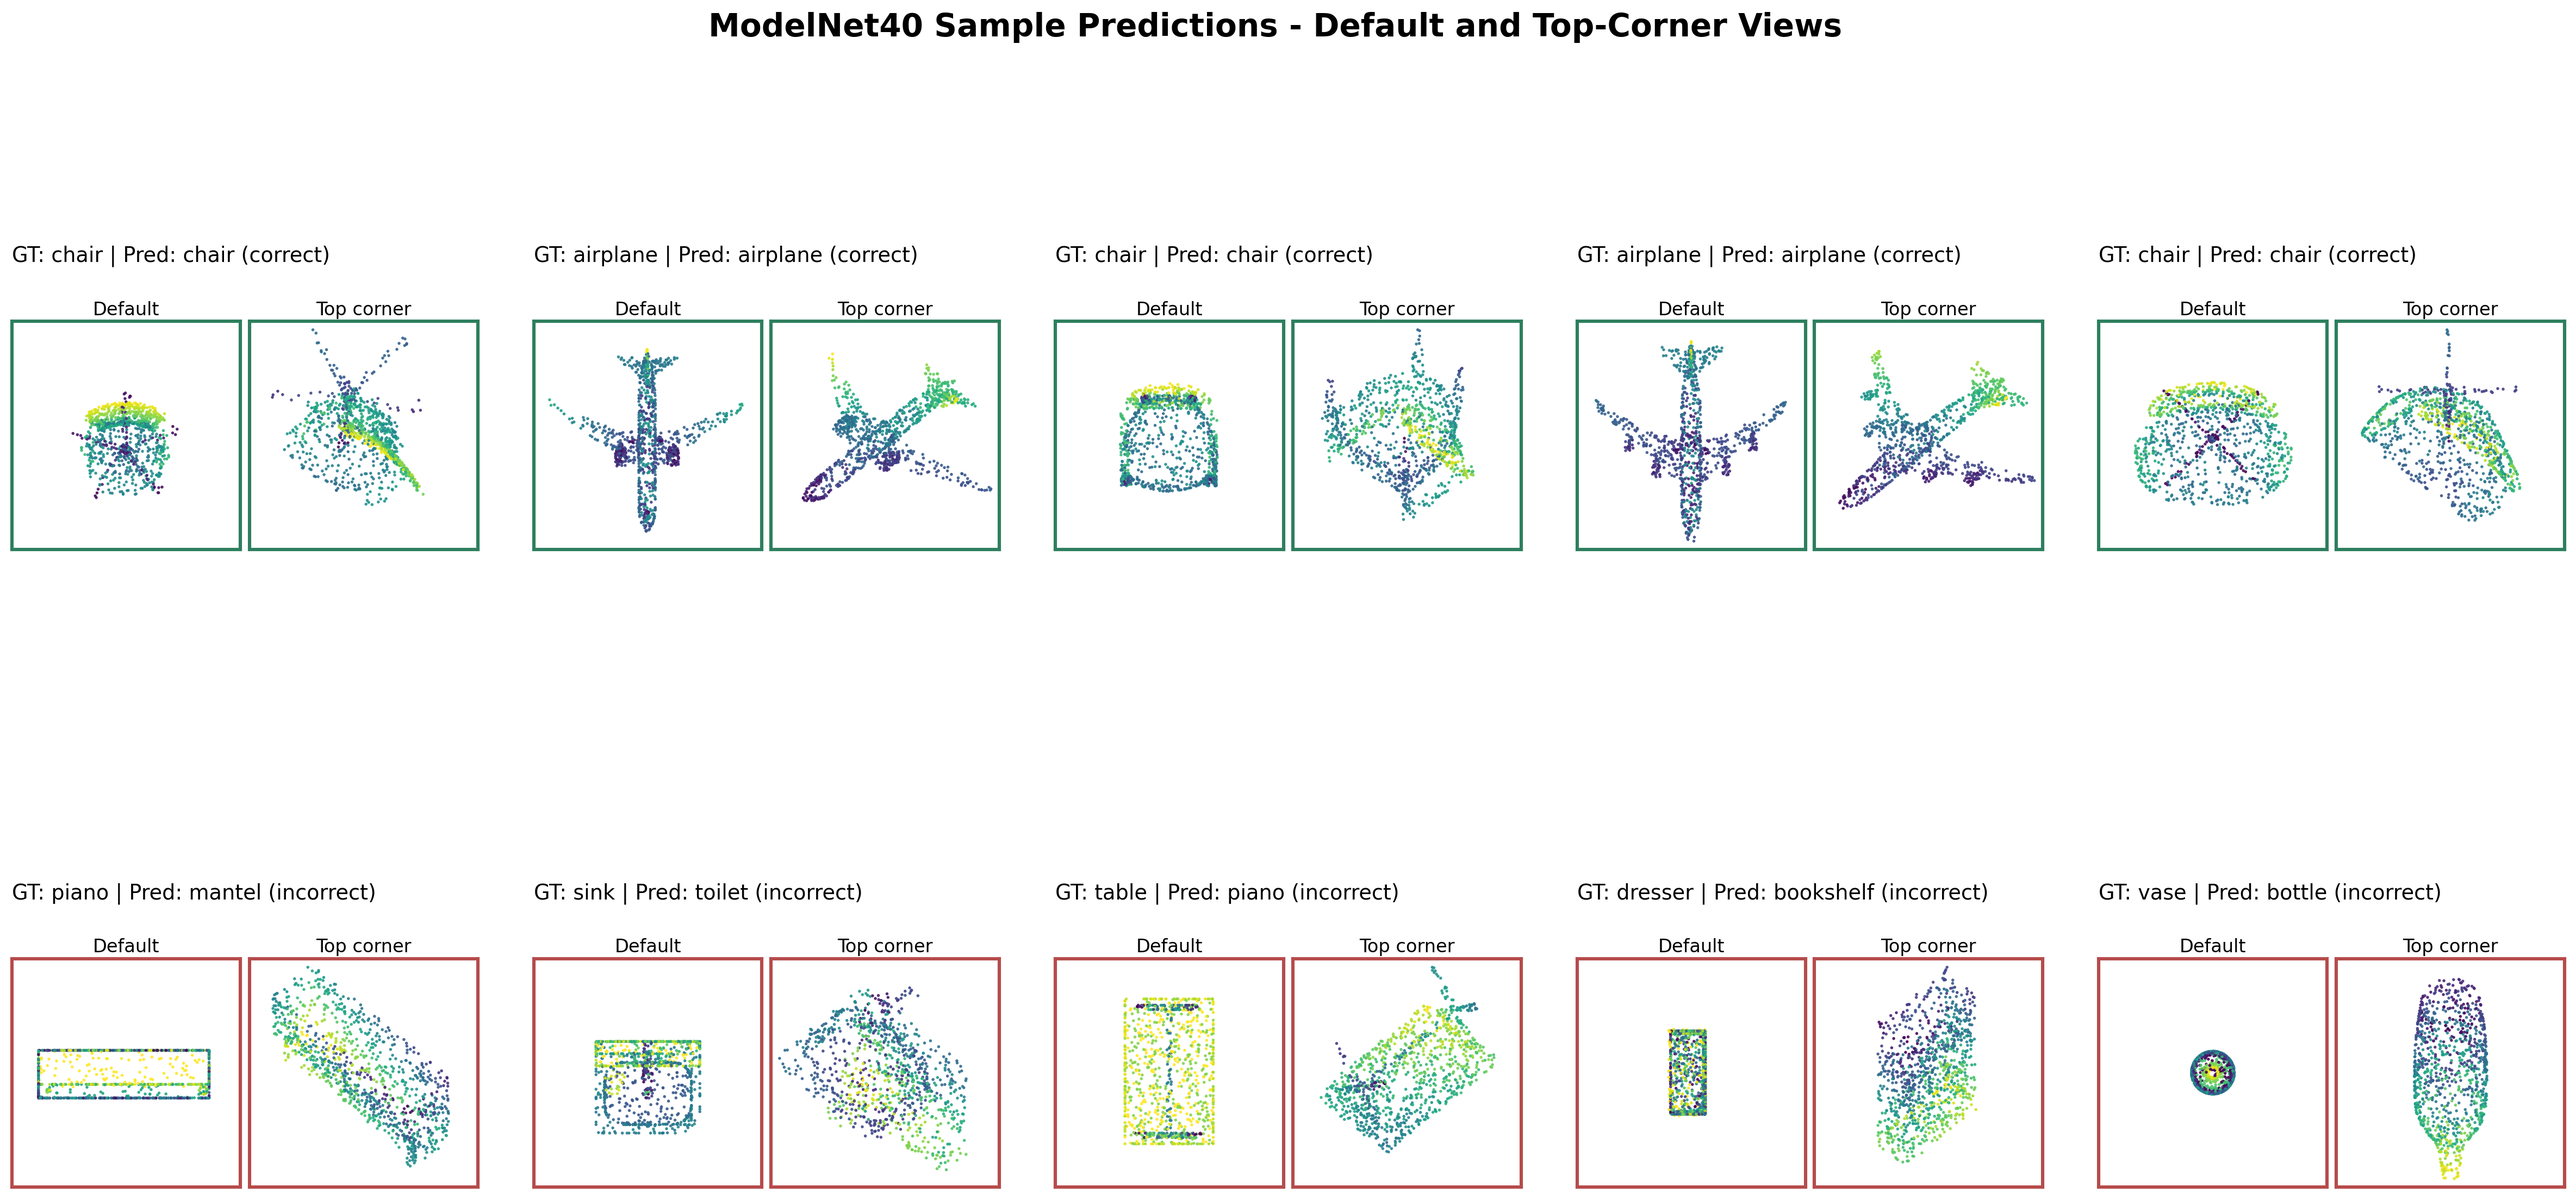
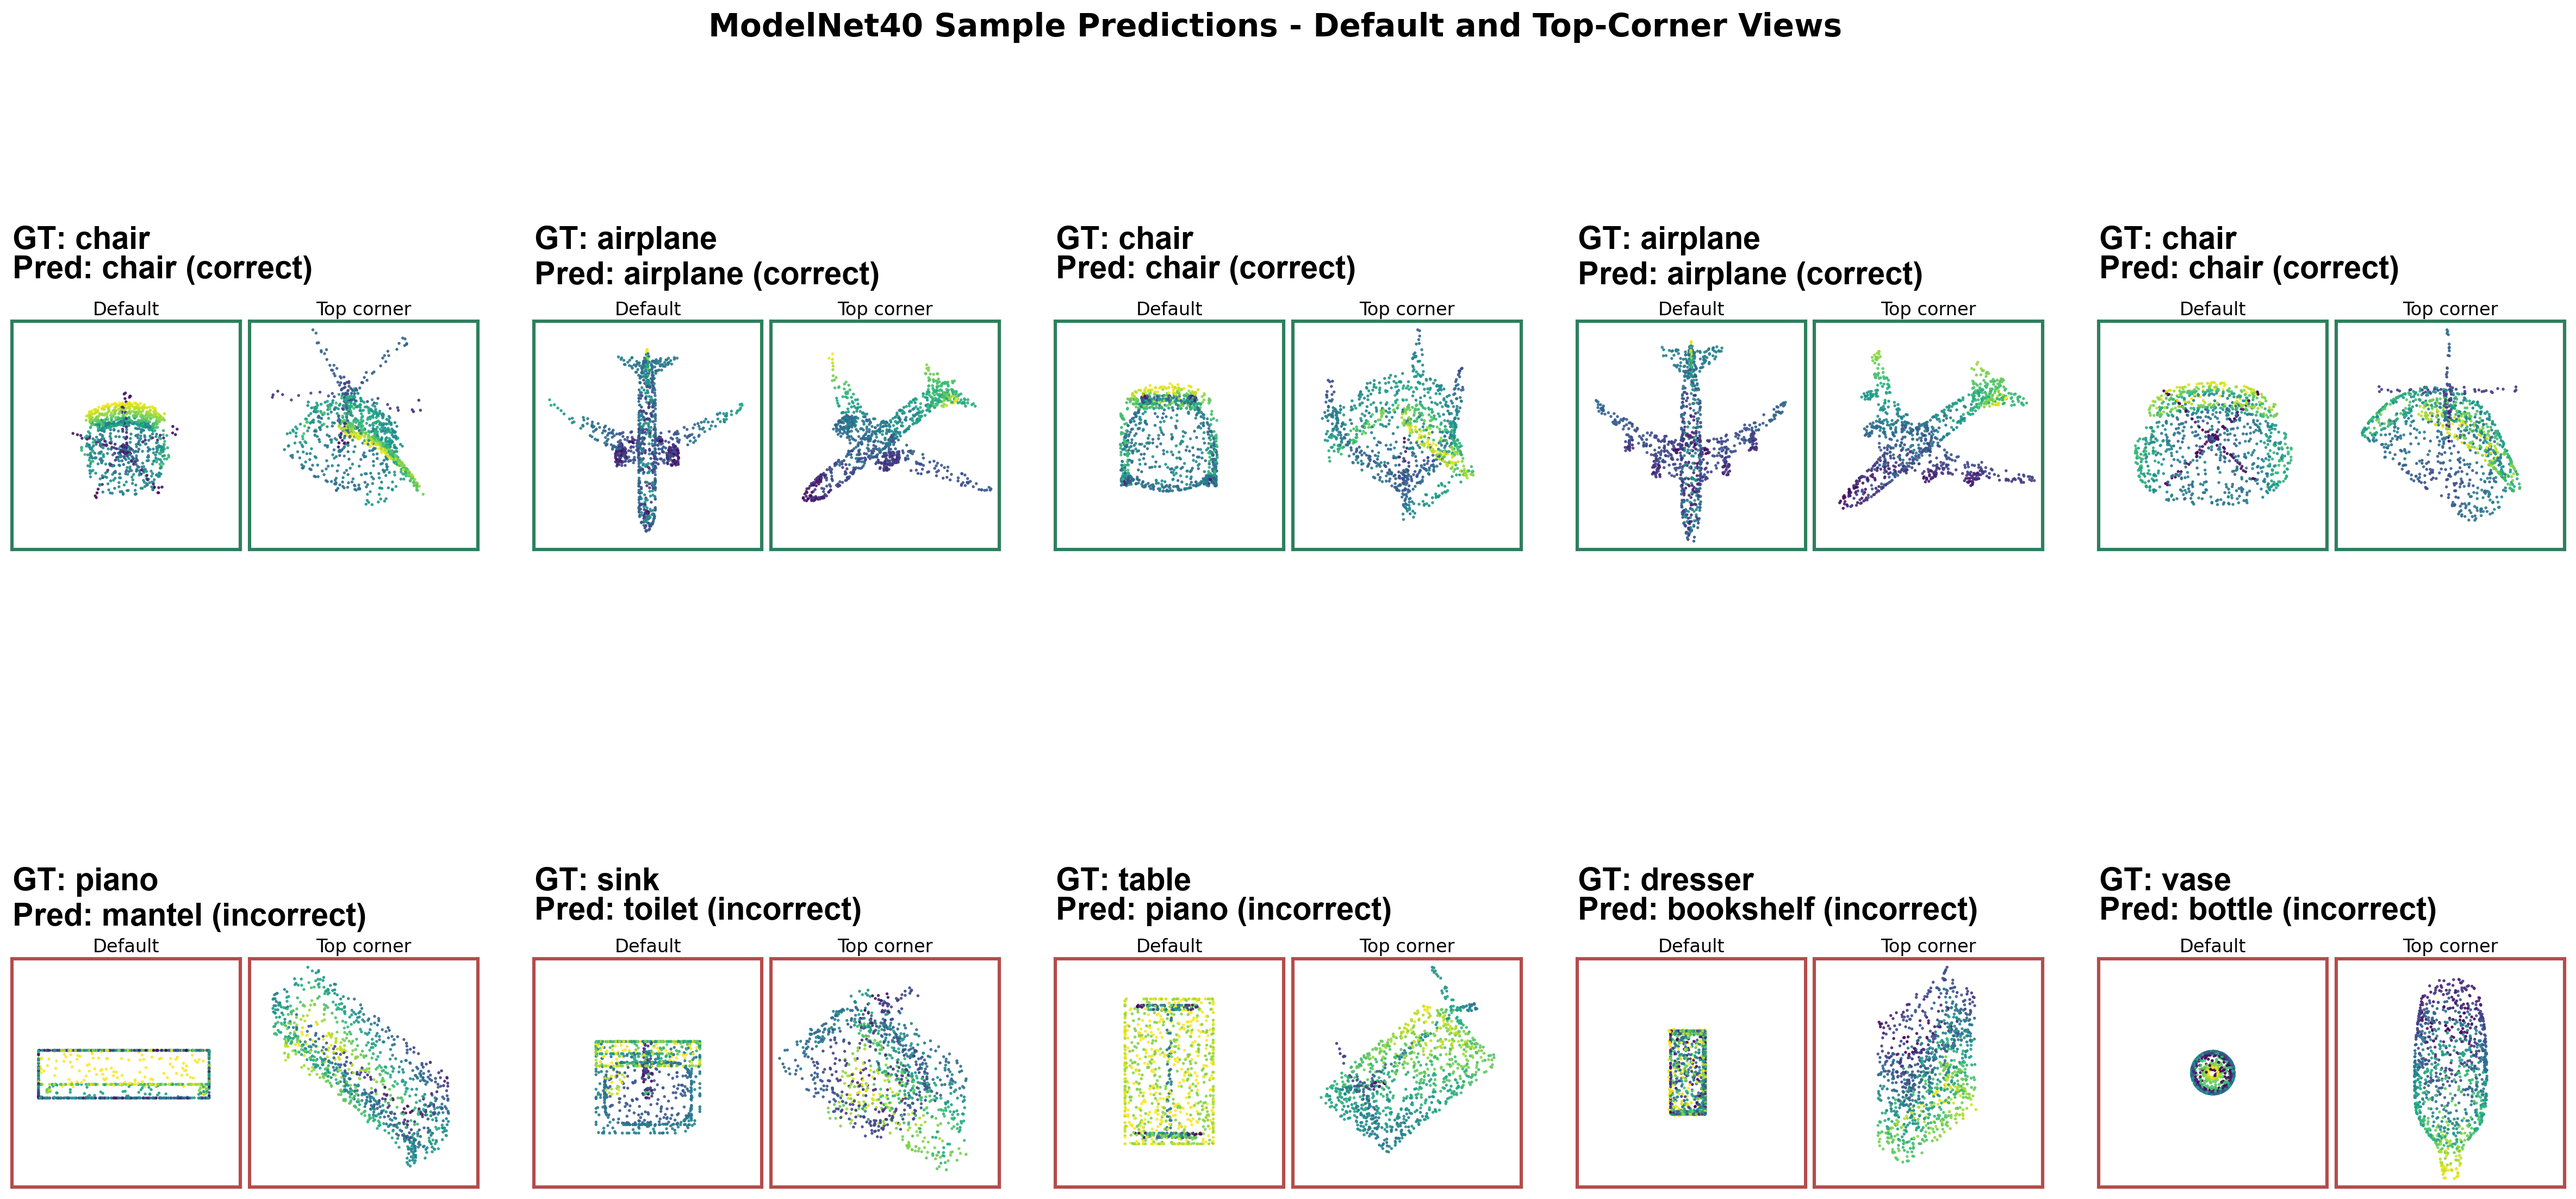
Improve README gallery label readability

diff --git a/scripts/create_modelnet_classification_assets.py b/scripts/create_modelnet_classification_assets.py
@@ -169,7 +169,7 @@ def set_combined_axis_style(ax, correct: bool):
 def render_combined_default(ax, points: np.ndarray, correct: bool):
     ax.scatter(points[:, 0], points[:, 1], c=points[:, 2], cmap="viridis", s=3.2, alpha=0.9, linewidths=0)
     set_combined_axis_style(ax, correct)
-    ax.set_title("Default", fontsize=11, pad=4)
+    ax.set_title("Default", fontsize=14, pad=5)
 
 
 def render_combined_top_corner(ax, points: np.ndarray, correct: bool):
@@ -178,7 +178,7 @@ def render_combined_top_corner(ax, points: np.ndarray, correct: bool):
     xy = xy / max_abs
     ax.scatter(xy[:, 0], xy[:, 1], c=depth, cmap="viridis", s=3.2, alpha=0.9, linewidths=0)
     set_combined_axis_style(ax, correct)
-    ax.set_title("Top corner", fontsize=11, pad=4)
+    ax.set_title("Top corner", fontsize=14, pad=5)
 
 
 def save_combined_gallery(samples_path: Path, output_path: Path, run_dir: Path, data_dir: Path):
@@ -199,12 +199,14 @@ def save_combined_gallery(samples_path: Path, output_path: Path, run_dir: Path, 
         render_combined_top_corner(ax_top, points, correct)
         ax_default.text(
             0.0,
-            1.24,
-            f"GT: {row['ground_truth_name']} | Pred: {row['predicted_name']} ({status})",
+            1.30,
+            f"GT: {row['ground_truth_name']}\nPred: {row['predicted_name']} ({status})",
             transform=ax_default.transAxes,
-            fontsize=12.5,
+            fontsize=18,
+            fontweight="bold",
             ha="left",
             va="bottom",
+            linespacing=1.1,
         )
 
     fig.suptitle("ModelNet40 Sample Predictions - Default and Top-Corner Views", fontsize=19, fontweight="bold", y=0.985)

diff --git a/scripts/create_modelnet_regression_assets.py b/scripts/create_modelnet_regression_assets.py
@@ -102,7 +102,7 @@ def render_default(ax, points: np.ndarray, border: str):
         linewidths=0,
     )
     set_axis_style(ax, border)
-    ax.set_title("Default", fontsize=11, pad=4)
+    ax.set_title("Default", fontsize=14, pad=5)
 
 
 def render_top_corner(ax, points: np.ndarray, border: str):
@@ -119,7 +119,7 @@ def render_top_corner(ax, points: np.ndarray, border: str):
         linewidths=0,
     )
     set_axis_style(ax, border)
-    ax.set_title("Top corner", fontsize=11, pad=4)
+    ax.set_title("Top corner", fontsize=14, pad=5)
 
 
 def save_regression_gallery(run_dir: Path, data_dir: Path, output_path: Path):
@@ -159,13 +159,14 @@ def save_regression_gallery(run_dir: Path, data_dir: Path, output_path: Path):
         )
         ax_default.text(
             0.0,
-            1.24,
+            1.30,
             title,
             transform=ax_default.transAxes,
-            fontsize=12.5,
+            fontsize=18,
+            fontweight="bold",
             ha="left",
             va="bottom",
-            linespacing=1.25,
+            linespacing=1.15,
         )
 
     fig.suptitle(
